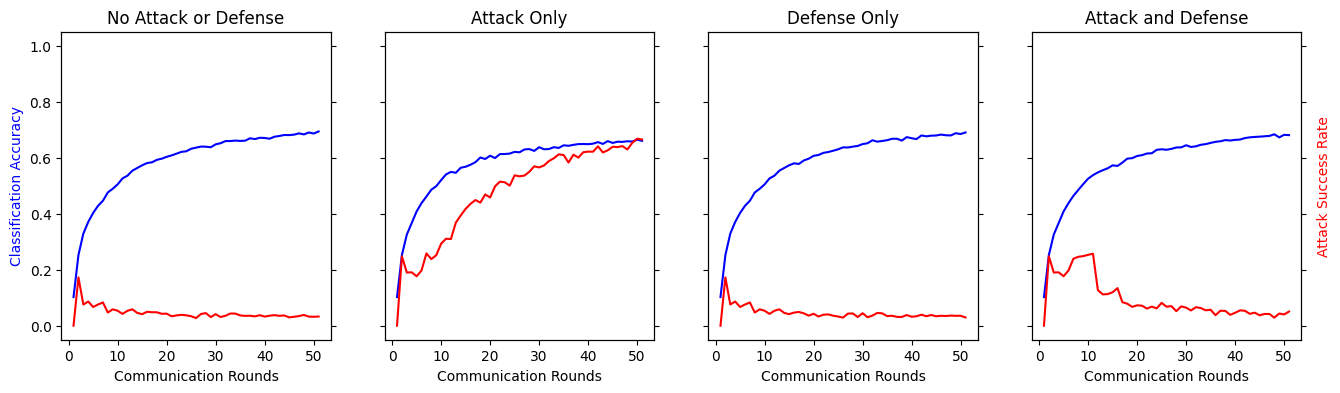
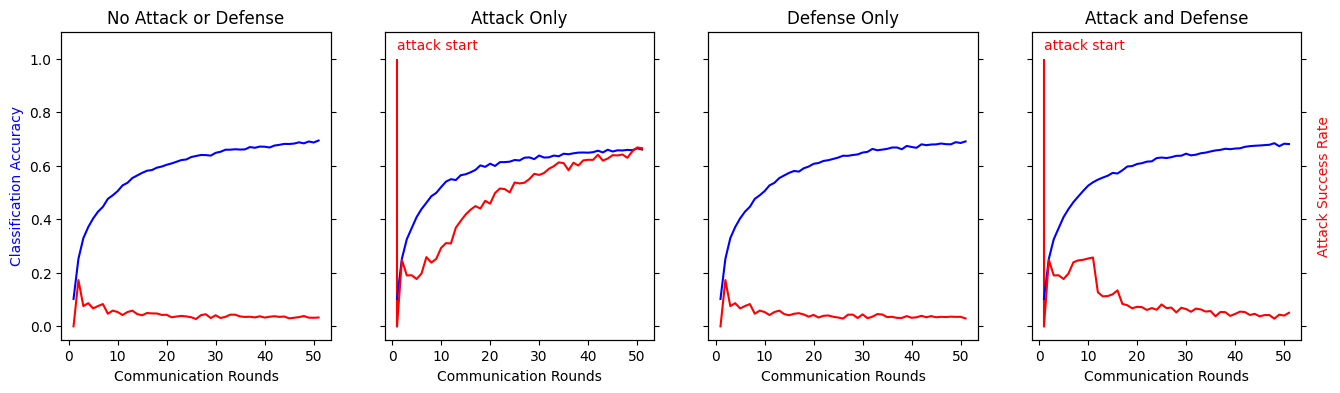
ready for multiple attacker experiments

diff --git a/article/99_visuals/experiment_figures.py b/article/99_visuals/experiment_figures.py
@@ -19,6 +19,7 @@ def get_args():
     parser.add_argument('--n_rounds', default=50, type=int)
     parser.add_argument('--d_rounds', default=None, type=int)
     parser.add_argument('--n_malicious', default=4, type=int)
+    parser.add_argument('--m_start', default=1, type=int)
     parser.add_argument('--alpha', default=10000, type=int)
     parser.add_argument('--alpha_val', default=10000, type=int)
 
@@ -51,13 +52,12 @@ def get_quantiles(r, values):
     return np.array(q1), np.array(q3)
 
 
-def plot_scaling(data_val, data_user, d_rounds, path):
+def plot_scaling(data_val, data_user, d_rounds, path, suffix):
 
     # validation user
     data_val, data_user = np.array(data_val), np.array(data_user)
     data_val = data_val[:-1]  # remove last validation check for next iteration never run
     data_val, scaling = data_val[1:], data_val[0, 1:]  # remove scaling row, remove round from scaling
-    print('scaling:', scaling)
     data_val_r, data_val_values = data_val[:, 0], data_val[:, 1:]  # seperate round from data
 
     data_val_max = data_val_values.max(axis=1)
@@ -83,13 +83,13 @@ def plot_scaling(data_val, data_user, d_rounds, path):
     # visual
     plt.figure()
     plt.xlabel('Communication Round')
-    plt.xlim(1, d_rounds)
+    plt.xlim(0, d_rounds)
 
     plt.title('Entropy-Based Threshold Scaling')
-    plt.plot(data_val_r, benign_upper, '--b')
-    plt.plot(data_val_r, benign_lower, '--b')
-    plt.plot(data_val_r, data_val_max_thresh, '-r')
-    plt.plot(data_val_r, data_val_scaled_max_thresh, '-g')
+    plt.plot(data_val_r + 1, benign_upper, '--b')
+    plt.plot(data_val_r + 1, benign_lower, '--b')
+    plt.plot(data_val_r + 1, data_val_max_thresh, '-r')
+    plt.plot(data_val_r + 1, data_val_scaled_max_thresh, '-g')
     plt.legend(labels=[
         'benign max ks: q3 + 1.5 * IQR',
         'benign max ks: q1 - 1.5 * IQR',
@@ -98,19 +98,22 @@ def plot_scaling(data_val, data_user, d_rounds, path):
     ])
 
     if path is not None:
-        plt.savefig(os.path.join(path, 'visuals', f'scaling--d_rounds{d_rounds}.png'), bbox_inches='tight')
+        plt.savefig(os.path.join(path, 'visuals', f'scaling{suffix}--d_rounds{d_rounds}.png'), bbox_inches='tight')
 
     plt.show()
     plt.close()
 
 
-def plot_threshold(data_val, data_user, d_rounds, path, n_malicious):
+def plot_threshold(
+    data_val, data_user, d_rounds,
+    path, suffix,
+    n_malicious, m_start
+    ):
 
     # validation user
     data_val, data_user = np.array(data_val), np.array(data_user)
     data_val = data_val[:-1]  # remove last validation check for next iteration never run
     data_val, scaling = data_val[1:], data_val[0, 1:]  # remove scaling row, remove round from scaling
-    print('scaling:', scaling)
     data_val_r, data_val_values = data_val[:, 0], data_val[:, 1:]  # seperate round from data
 
     data_val_max = data_val_values.max(axis=1)
@@ -142,24 +145,26 @@ def plot_threshold(data_val, data_user, d_rounds, path, n_malicious):
 
     # visual - benign
     ax1.set_title('Threshold vs. Benign')
-    ax1.set_ylim(-0.05, 1.05)
+    ax1.set_ylim(-0.05, 1.1)
     ax1.set_xlabel('Communication Round')
-    ax1.set_xlim(1, d_rounds)
+    ax1.set_xlim(0, d_rounds)
 
-    ax1.plot(data_val_r, benign_upper, '--b')
-    ax1.plot(data_val_r, benign_lower, '--b')
-    ax1.plot(data_val_r, data_val_scaled_max_thresh, '-g')
+    ax1.plot(data_val_r + 1, benign_upper, '--b')
+    ax1.plot(data_val_r + 1, benign_lower, '--b')
+    ax1.plot(data_val_r + 1, data_val_scaled_max_thresh, '-g')
     ax1.legend(labels=[
         'benign max ks: q3 + 1.5 * IQR',
         'benign max ks: q1 - 1.5 * IQR',
         'scaled threshold'
     ])
+    ax1.vlines(m_start, 0, 1, colors='r')
+    ax1.text(m_start, 1.033, 'attack start', c='r')
 
     # visual - malicious
     ax2.set_title('Threshold vs. Malicious')
-    ax2.set_ylim(-0.05, 1.05)
+    ax2.set_ylim(-0.05, 1.1)
     ax2.set_xlabel('Communication Round')
-    ax2.set_xlim(1, d_rounds)
+    ax2.set_xlim(0, d_rounds)
 
     if n_malicious > 1:
 
@@ -171,9 +176,9 @@ def plot_threshold(data_val, data_user, d_rounds, path, n_malicious):
         malicious_lower = data_malicious_max_q1 - 1.5 * (data_malicious_max_q3 - data_malicious_max_q1)
         malicious_lower = np.maximum(np.minimum(malicious_lower, 1), 0)
 
-        ax2.plot(data_val_r, malicious_upper, '--r')
-        ax2.plot(data_val_r, malicious_lower, '--r')
-        ax2.plot(data_val_r, data_val_scaled_max_thresh, '-g')
+        ax2.plot(data_val_r + 1, malicious_upper, '--r')
+        ax2.plot(data_val_r + 1, malicious_lower, '--r')
+        ax2.plot(data_val_r + 1, data_val_scaled_max_thresh, '-g')
 
         c_labels=[
             'malicious max ks: q3 + 1.5 * IQR',
@@ -184,8 +189,8 @@ def plot_threshold(data_val, data_user, d_rounds, path, n_malicious):
 
     else:
 
-        ax2.plot(data_val_r, data_malicious_max, '--r')
-        ax2.plot(data_val_r, data_val_scaled_max_thresh, '-g')
+        ax2.plot(data_val_r + 1, data_malicious_max, '--r')
+        ax2.plot(data_val_r + 1, data_val_scaled_max_thresh, '-g')
 
         c_labels=[
             'malicious max ks',
@@ -193,8 +198,11 @@ def plot_threshold(data_val, data_user, d_rounds, path, n_malicious):
         ]
         ax2.legend(labels=c_labels)
 
+    ax2.vlines(m_start, 0, 1, colors='r')
+    ax2.text(m_start, 1.033, 'attack start', c='r')
+
     if path is not None:
-        plt.savefig(os.path.join(path, 'visuals', f'threshold--d_rounds{d_rounds}.png'), bbox_inches='tight')
+        plt.savefig(os.path.join(path, 'visuals', f'threshold{suffix}--d_rounds{d_rounds}.png'), bbox_inches='tight')
 
     plt.show()
     plt.close()
@@ -213,17 +221,19 @@ def main():
         ('distributed' if args.dba else 'centralized'),
         'alpha' + str(args.alpha) + '--alpha_val' + str(args.alpha_val)
     )
+    suffix = '--n_malicious' + str(args.n_malicious) + '--m_start' + str(args.m_start)
 
     if not os.path.exists(os.path.join(path, 'visuals')):
-        os.mkdir(os.path.join(path, 'visuals'))
+        os.mkdir(path, 'visuals')
+
 
     # experiments
     titles = ['No Attack or Defense', 'Attack Only', 'Defense Only', 'Attack and Defense']
     values = [
         (args.n_rounds + 1, args.n_rounds + 1),
-        (args.n_rounds + 1, 1),
+        (args.n_rounds + 1, args.m_start),
         (1, args.n_rounds + 1),
-        (1, 1)
+        (1, args.m_start)
    ]
 
 
@@ -238,7 +248,7 @@ def main():
     temp_val = np.load(os.path.join(subdir, 'data/output_val_ks.npy'), allow_pickle=True)
     temp_user = np.load(os.path.join(subdir, 'data/output_user_ks.npy'), allow_pickle=True)
 
-    plot_scaling(temp_val, temp_user, args.d_rounds, path)
+    plot_scaling(temp_val, temp_user, args.d_rounds, path, suffix)
 
 
     """ Defense Plot - Thresholding """
@@ -252,7 +262,7 @@ def main():
     temp_val = np.load(os.path.join(subdir, 'data/output_val_ks.npy'), allow_pickle=True)
     temp_user = np.load(os.path.join(subdir, 'data/output_user_ks.npy'), allow_pickle=True)
 
-    plot_threshold(temp_val, temp_user, args.d_rounds, path, args.n_malicious)
+    plot_threshold(temp_val, temp_user, args.d_rounds, path, suffix, args.n_malicious, args.m_start)
 
 
     """ Global Accuracy """
@@ -262,6 +272,75 @@ def main():
 
         # import files
         i, j = values[index]
+
+        try:
+
+            subdir = os.path.join(
+                path,
+                'n_rounds' + str(args.n_rounds) + '--d_start' + str(i) + (
+                    '--m_start' + str(j) + '--n_malicious' + str(args.n_malicious) if j == args.m_start else '--m_start' + str(j) + '--n_malicious' + str(1)
+                )
+            )
+
+            temp_global = np.load(os.path.join(subdir, 'data/output_global_acc.npy'), allow_pickle=True)
+            temp_val = np.load(os.path.join(subdir, 'data/output_val_ks.npy'), allow_pickle=True)
+            temp_user = np.load(os.path.join(subdir, 'data/output_user_ks.npy'), allow_pickle=True)
+
+        except:
+
+            subdir = os.path.join(
+                path,
+                'n_rounds' + str(args.n_rounds) + '--d_start' + str(i) + (
+                    '--m_start' + str(j) + '--n_malicious' + str(args.n_malicious)
+                )
+            )
+
+            temp_global = np.load(os.path.join(subdir, 'data/output_global_acc.npy'), allow_pickle=True)
+            temp_val = np.load(os.path.join(subdir, 'data/output_val_ks.npy'), allow_pickle=True)
+            temp_user = np.load(os.path.join(subdir, 'data/output_user_ks.npy'), allow_pickle=True)
+
+        # data manipulation
+
+        # global acc
+        plt.sca(axarr[index])
+        plt.title(titles[index])
+        plt.xlabel('Communication Rounds')
+        plt.plot(range(1, len(temp_global) + 1), temp_global[:, 1], '-b')
+        plt.plot(range(1, len(temp_global) + 1), temp_global[:, 2], '-r')
+        plt.ylim(-0.05, 1.1)
+
+        if j == args.m_start:
+            plt.vlines(args.m_start, 0, 1, colors='r')
+            plt.text(args.m_start, 1.033, 'attack start', c='r')
+
+        copy = axarr[index].twinx()
+        copy.set_ylim(-0.05, 1.1)
+        copy.set_yticklabels([])
+
+        if index == 0:
+            axarr[0].set_ylabel('Classification Accuracy', c='b')
+
+        if (index + 1) == len(titles):
+            copy.set_ylabel('Attack Success Rate', c='r')
+
+    plt.savefig(
+        os.path.join(path, 'visuals', f'accuracy{suffix}.png'), bbox_inches='tight'
+    )
+    plt.show()
+    plt.close()
+
+
+    """ Only attack plots """
+    fig, axarr = plt.subplots(ncols=2, sharey=True, sharex=True, figsize=(8, 4))
+
+    k = 0
+    for index in range(len(titles)):
+
+        # import files
+        i, j = values[index]
+        if j != args.m_start:
+            continue
+
         subdir = os.path.join(
             path,
             'n_rounds' + str(args.n_rounds) + '--d_start' + str(i) + '--m_start' + str(j) + '--n_malicious' + str(args.n_malicious)
@@ -274,25 +353,30 @@ def main():
         # data manipulation
 
         # global acc
-        plt.sca(axarr[index])
+        plt.sca(axarr[k])
         plt.title(titles[index])
         plt.xlabel('Communication Rounds')
         plt.plot(range(1, len(temp_global) + 1), temp_global[:, 1], '-b')
         plt.plot(range(1, len(temp_global) + 1), temp_global[:, 2], '-r')
-        plt.ylim(-0.05, 1.05)
+        plt.ylim(-0.05, 1.1)
 
-        copy = axarr[index].twinx()
-        copy.set_ylim(-0.05, 1.05)
+        if j == args.m_start:
+            plt.vlines(args.m_start, 0, 1, colors='r')
+            plt.text(args.m_start, 1.033, 'attack start', c='r')
+
+        copy = axarr[k].twinx()
+        copy.set_ylim(-0.05, 1.1)
         copy.set_yticklabels([])
 
-        if index == 0:
+        if k == 0:
             axarr[0].set_ylabel('Classification Accuracy', c='b')
-
-        if (index + 1) == len(titles):
+        else:
             copy.set_ylabel('Attack Success Rate', c='r')
 
+        k += 1
+
     plt.savefig(
-        os.path.join(path, 'visuals', 'accuracy.png'), bbox_inches='tight'
+        os.path.join(path, 'visuals', f'attack_accuracy{suffix}.png'), bbox_inches='tight'
     )
     plt.show()
     plt.close()
